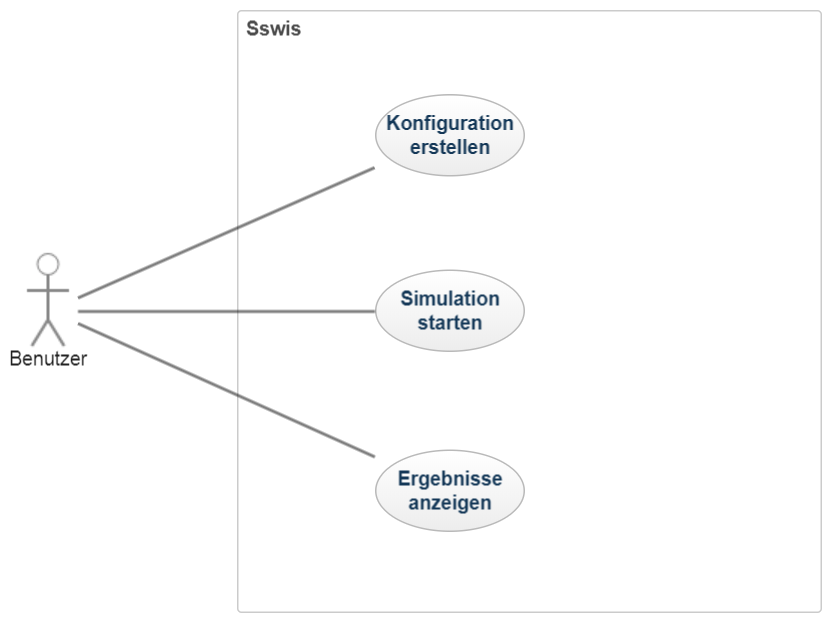
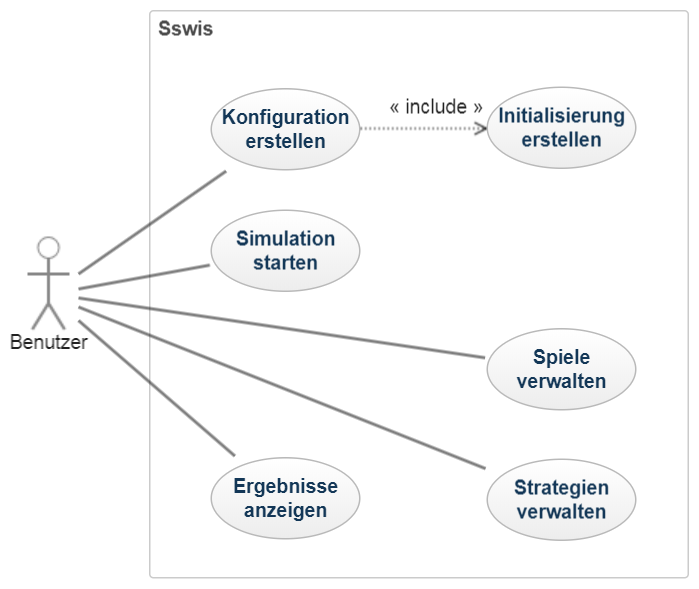
Systemmodelle aktualisiert und um Szenarien erweitert

diff --git a/Pflichtenheft/11_Systemmodelle.tex b/Pflichtenheft/11_Systemmodelle.tex
@@ -1,0 +1,57 @@
+\section{Systemmodelle}
+
+\subsection{Szenarien}
+
+\subsubsection{Eigenes Spiel erstellen}
+Der Benutzer möchte ein Spiel erstellen, das beide Spieler dafür belohnt, unterschiedliche Entscheidungen zu treffen.\\
+Hierfür öffnet er das Spiele-Menü und klickt auf 'neues Spiel'. Er gibt dem Spiel einen Namen und setzt die Werte:
+\begin{table}[H]
+\centering
+\setlength{\extrarowheight}{2pt}
+\begin{tabular}{cc|c|c|}
+  & \multicolumn{1}{c}{} & \multicolumn{2}{c}{Spieler $2$} \\
+  & \multicolumn{1}{c}{} & \multicolumn{1}{c}{$K$} & \multicolumn{1}{c}{$D$} \\\cline{3-4}
+  \multirow{2}*{Spieler $1$} & $K$ & $0,0$ & $3,3$ \\\cline{3-4} 
+  & $D$ & $3,3$ & $0,0$ \\\cline{3-4}
+\end{tabular}
+\end{table}
+Anschließend versieht er sein Spiel mit einer Beschreibung.\\
+Er beendet den Vorgang durch Klicken von 'Änderungen speichern und schließen'.
+
+\subsubsection{Kombinierte Strategie erstellen}
+Der Benutzer möchte eine eigene kombinierte Strategie erstellen, bei der Agenten eine besondere Verhaltensweise gegenüber Agenten innerhalb ihrer Gruppe und gegenüber reicheren Agenten außerhalb ihrer Gruppe haben.\\
+Hierfür öffnet er das Spiele-Menü und klickt auf 'neue kombinierte Strategie'. Er gibt der Strategie den Namen "`GruppenTitforTat"'. Unter 'Bedingungen' klickt er auf 'hinzufügen'. Er wählt die Bedingung 'Mit meiner Gruppe' und die Strategie 'Tit for Tat'.
+Analog fügt er eine weitere Bedingung 'Mit reicheren Agenten' mit der Strategie 'Grim' hinzu. Für 'keine Bedingung' wählt er 'keine Kooperation'. Schließlich beschreibt er in einem Textfeld seine Strategie und klickt 'kombinierte Strategie speichern und schließen'.
+
+\subsubsection{Rivalisierende Gruppen}
+Der Benutzer möchte eine Population mit zwei rivalisierenden Gruppen simulieren.\\
+Hierfür hat er bereits eine kombinierte Strategie erstellt, nach der Agenten mit Agenten aus ihrer eigenen Gruppe kooperieren, mit Agenten aus einer anderen Gruppe nicht kooperieren und sonst 'Tit for Tat' spielen.\\
+Im Initialisierungsmenü erstellt er nun zwei Gruppen und gibt unter 'Anteil aller Agenten' den Wert 25 ein. Beiden Gruppen weist er seine Strategie zu, allen anderen 'Tit for Tat'.
+
+\subsubsection{Ausreißer im Ergebnis vermeiden}
+Der Benutzer hat sich für eine bestimmte Konfiguration entschieden, mit der er eine Simulation durchführen möchte. Um das Risiko von Ausreißern im Ergebnis zu verringern, wählt er beim Start der Simulation eine hohe Wiederholungsanzahl aus. Nach die Simulation abgeschlossen ist, wählt er in der Ergebnisansicht unter 'Wiederholung' den Punkt 'Durchschnitt' aus.
+
+\newpage
+
+\subsection{Anwendungsfälle}
+
+\begin{figure}[htbp]
+{\centering 
+\includegraphics[width=0.9\textwidth]{Anwendungsfalldiagramme/usecase_sswis.png}
+\caption{Das Programm in der Standardausführung} }
+\bigskip
+Sswis ist ein Simulator und gliedert sich als solcher in drei übergeordnete Anwendungen. Die Konfiguration der Rahmenbedingungen, das Starten der eigentlichen Simulation und das Abrufen der Ergebnisse. Die Interaktion mit dem Benutzer beschränkt sich im Wesentlichen auf die Konfiguration und die Anzeige der Ergebnisse Außerdem kann er die für die Konfiguration verfügbaren Spiele und Strategien verwalten\footnotemark. Die Simulation wird vom Benutzer initiiert und läuft anschließend ohne weiteres Einwirken von außen ab.
+
+\end{figure}
+
+\footnotetext{darin inbegriffen sind Möglichkeiten zur Benennung, Erstellung und Löschung für sowohl Spiele als auch Strategien}
+
+\begin{figure}[htbp]
+{\centering
+\includegraphics[width=1.0\textwidth]{Anwendungsfalldiagramme/usecase_sswis+.png}
+\caption{Das Programm mit allen optionalen Funktionen} }
+\bigskip
+
+Zusätzlich zum Funktionsumfang von Sswis, erlaubt Sswis+ das Importieren von Konfigurationen und Initialisierungen und das Exportieren von Ergebnissen in Form jeweils einer Textdatei (z.B. CSV; Comma-separated values). Dateien zum Import einer Konfiguration bzw. Initialisierung wurden zu einem früheren Zeitpunkt durch den entsprechenden Assistenten erstellt.
+
+\end{figure}

diff --git a/Pflichtenheft/master.tex b/Pflichtenheft/master.tex
@@ -62,9 +62,9 @@ bookmarks=true,
 
 \include{09_Qualitaetsbestimmungen}
 
-\include{10_Systemmodelle}
+\include{10_Testfaelle}
 
-\include{11_TestfaelleSzenarien}
+\include{11_Systemmodelle}
 
 \include{12_Glossar}
 

diff --git a/Pflichtenheft/10_Testfaelle.tex b/Pflichtenheft/10_Testfaelle.tex
@@ -1,5 +1,4 @@
-
-\section{Globale Testfälle und Szenarien}
+\section{Globale Testfälle}
 
 \subsection{Testfälle}
 
